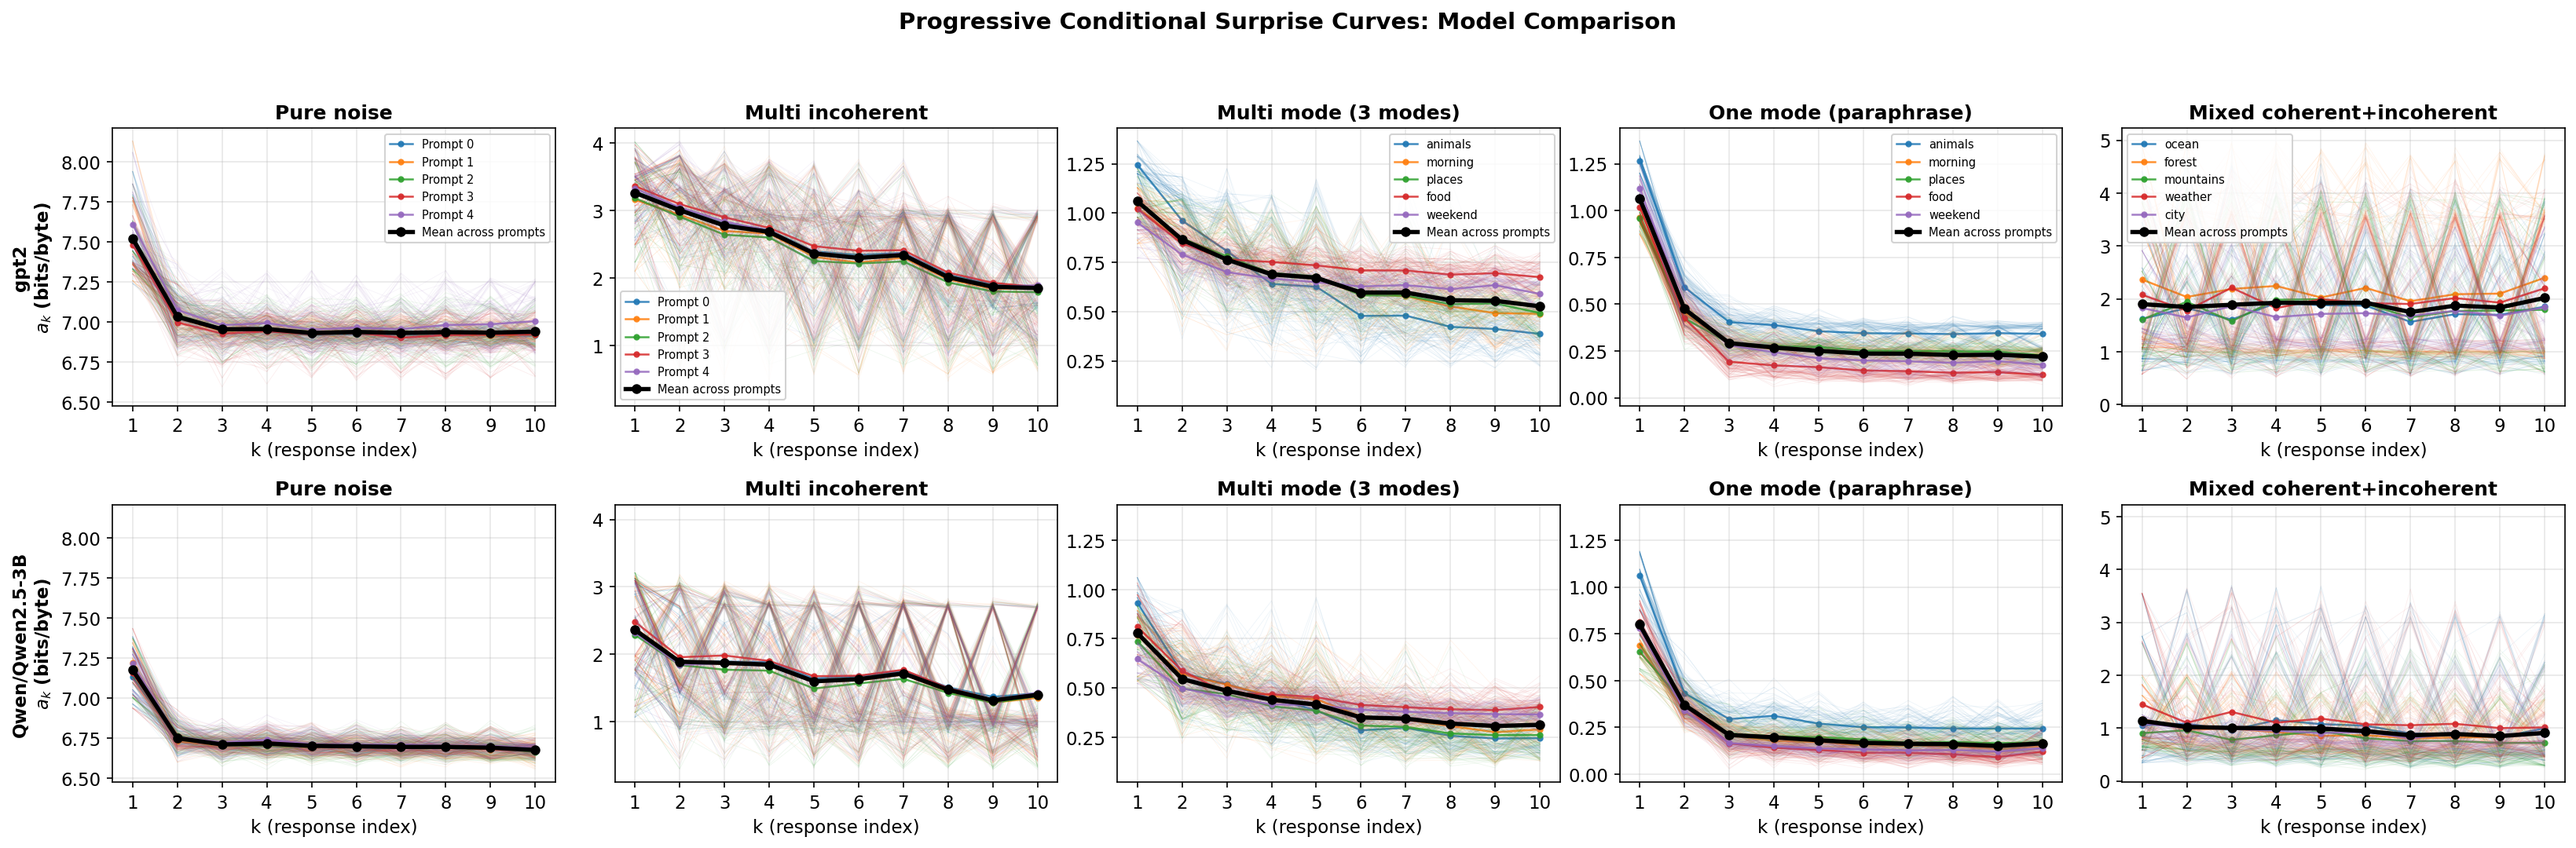
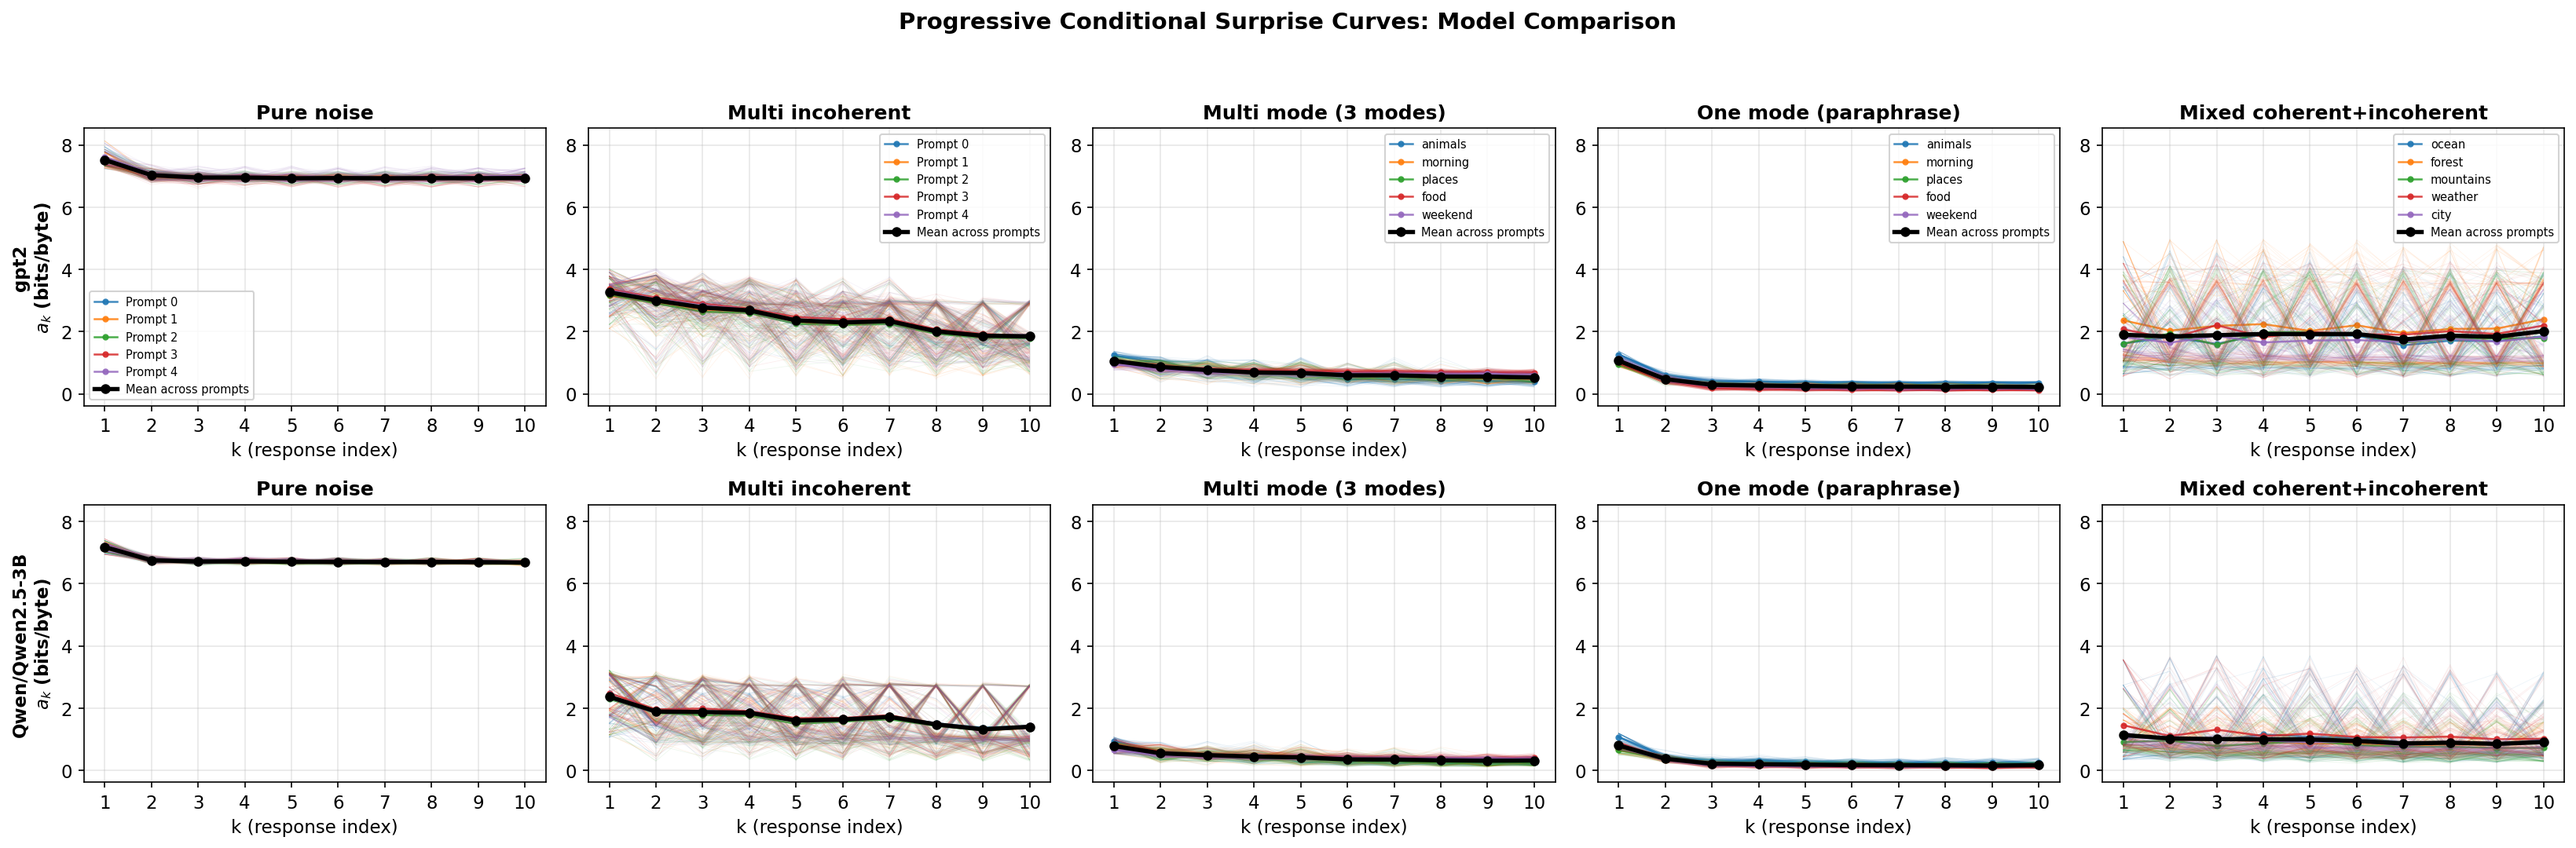
plot_ak_curves: shared y-axis across all panels in Figure 4
The combined model×scenario overview previously used a separate
y-range per scenario column (one-mode showed 0–1.25, pure-noise
showed 6.5–8).  Visually that flattened the diversity-vs-noise
contrast — the panels looked similarly shaped even though they
differ by ~5× in absolute surprise.

Single global y-range now (0–8.5 bits/byte for v3), bounded by the
widest per-permutation curve across all 5 scenarios × both models.
Per-scenario detail in well-converged scenarios is reduced; cross-
scenario eyeballing is correct without having to read the y-tick
labels.

Per-scenario individual PNGs (comparison_ak_curve_<scenario>.png)
keep their per-cell y-axis logic — they're standalone single-scenario
panels, so no comparison risk.

diff --git a/scripts/plot_ak_curves.py b/scripts/plot_ak_curves.py
@@ -285,8 +285,9 @@ def generate_comparison_plots(
         print(f"  Saved: {path}")
 
     # Combined overview: models (rows) x scenarios (columns) — landscape.
-    # Each column is shared y-axis (per-scenario), so different scenarios can
-    # have different y-ranges but both models for one scenario stay comparable.
+    # Single shared y-axis across ALL panels so cross-scenario eyeballing is
+    # apples-to-apples (per-scenario rescaling visually flattened the
+    # well-converged scenarios and exaggerated the noisy ones).
     n_scenarios = len(all_keys)
     fig, axes = plt.subplots(
         n_models,
@@ -295,29 +296,31 @@ def generate_comparison_plots(
         squeeze=False,
     )
 
-    # Compute per-scenario shared y-ranges first (across both models).
-    scenario_y_ranges: dict[str, tuple[float, float]] = {}
-    for key in all_keys:
-        y_min, y_max = float("inf"), float("-inf")
-        for data in datasets:
-            if key in data.get("scenarios", {}):
-                for m in data["scenarios"][key]:
-                    curve = _per_byte_curve(m)
-                    y_min = min(y_min, min(curve))
-                    y_max = max(y_max, max(curve))
-                    if m.get("per_permutation_a_k_curves") is not None:
-                        pbc = m.get("per_permutation_byte_counts")
-                        for j, pc in enumerate(m["per_permutation_a_k_curves"]):
-                            if pbc is not None:
-                                pb = [
-                                    t / b if b > 0 else 0.0 for t, b in zip(pc, pbc[j])
-                                ]
-                            else:
-                                pb = pc
-                            y_min = min(y_min, min(pb))
-                            y_max = max(y_max, max(pb))
-        y_pad = (y_max - y_min) * 0.05 if y_max > y_min else 0.1
-        scenario_y_ranges[key] = (y_min - y_pad, y_max + y_pad)
+    # One global y-range, computed across every per-perm curve in every
+    # (model, scenario) cell.  Per-perm curves are the widest layer, so
+    # bounding them bounds the per-prompt and mean curves automatically.
+    y_min, y_max = float("inf"), float("-inf")
+    for data in datasets:
+        for key in all_keys:
+            if key not in data.get("scenarios", {}):
+                continue
+            for m in data["scenarios"][key]:
+                curve = _per_byte_curve(m)
+                y_min = min(y_min, min(curve))
+                y_max = max(y_max, max(curve))
+                if m.get("per_permutation_a_k_curves") is not None:
+                    pbc = m.get("per_permutation_byte_counts")
+                    for j, pc in enumerate(m["per_permutation_a_k_curves"]):
+                        if pbc is not None:
+                            pb = [
+                                t / b if b > 0 else 0.0 for t, b in zip(pc, pbc[j])
+                            ]
+                        else:
+                            pb = pc
+                        y_min = min(y_min, min(pb))
+                        y_max = max(y_max, max(pb))
+    y_pad = (y_max - y_min) * 0.05 if y_max > y_min else 0.1
+    global_y_range = (y_min - y_pad, y_max + y_pad)
 
     for row, data in enumerate(datasets):
         for col, key in enumerate(all_keys):
@@ -341,7 +344,7 @@ def generate_comparison_plots(
                     transform=ax.transAxes,
                 )
                 ax.set_title(title, fontsize=11, fontweight="bold")
-            ax.set_ylim(scenario_y_ranges[key])
+            ax.set_ylim(global_y_range)
 
         # Row label (model name) on the leftmost axis of each row.
         axes[row, 0].set_ylabel(
